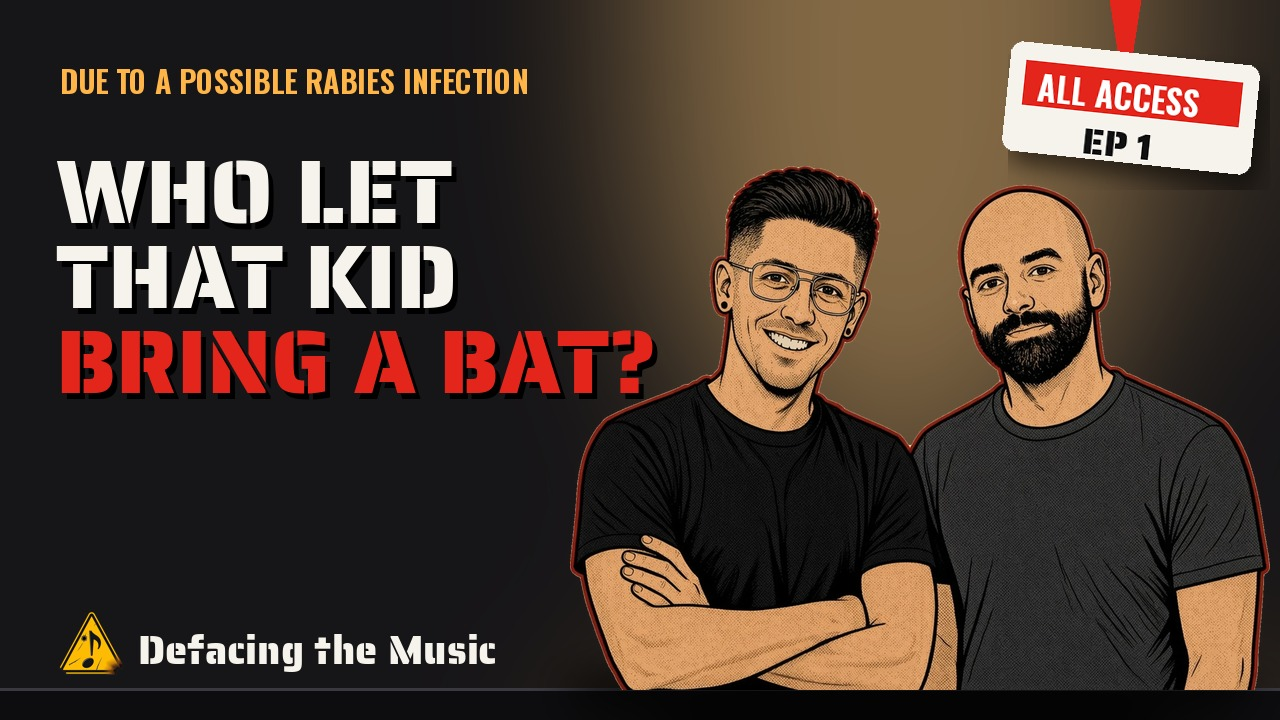
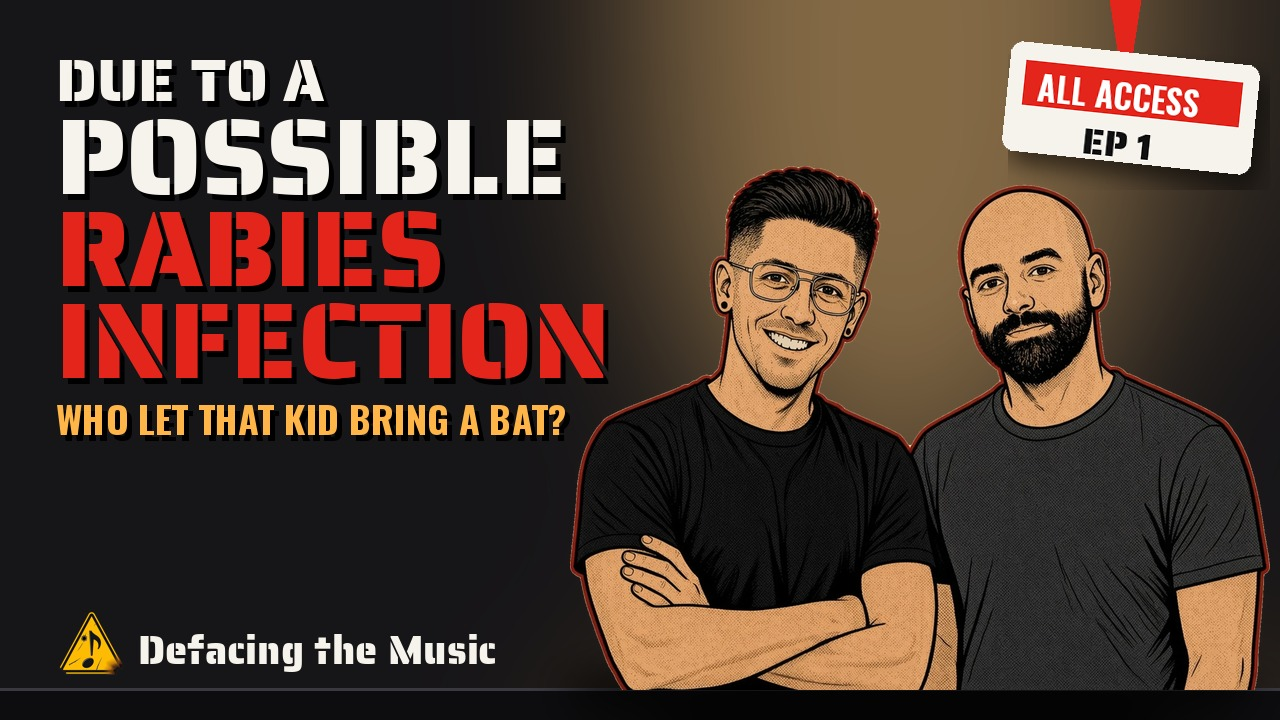
Episode 1 thumbnails: episode name big, subtitle smaller
Claude-Session: https://claude.ai/code/session_01SgoEQgzrgbohvY9Ho7h5Dy

Changed region(s): [[0.0312, 0.0611, 0.5312, 0.6111]]

diff --git a/CLAUDE.md b/CLAUDE.md
@@ -20,7 +20,7 @@ Live at https://defacingthemusic.com behind Cloudflare (SSL mode Flexible: visit
 
 ## Public site look: "Backstage" (Duck, Nov 22, 2026)
 - Duck picked the Backstage concept from admin > Site looks ("nice and simple"; the others "try too hard to be a theme"). The public site (`index.php`, `ep/index.php`) uses `assets/backstage.css`: dark stage `#161518` / floor `#1E1D21`, warm spotlight `#FFB547`, red `#E4251B`, paper `#F6F3EC`. Fonts: Saira Stencil One (headings, road-case stencil), Oswald (labels, buttons), Inter (body), Permanent Marker (the setlist only). Latest episode = ALL ACCESS laminate on a red lanyard; upcoming stories = Sharpie setlist gaff-taped down. Keep it simple, not a costume.
-- The admin matches it too (Duck, Nov 23): `lib/auth.php` loads `assets/admin-backstage.css` after `site.css` + `admin.css` (it only overrides). New admin styles go in admin-backstage.css. The teleprompter (`admin/prompter.php`) keeps its own black reading screen. Thumbnails are Backstage too (Duck, Nov 23: the yellow Gig Poster thumbnail is "not the theme anymore"): dark stage, warm spotlight, stencil type; the headline is the episode's real "Who ...?" subtitle (as set in admin > Episodes), the "Due To" title above it, EP N on an ALL ACCESS pass. Generator: Claude rebuilds them with PIL (fonts from Google Fonts). OBS pieces and cover art are still Gig Poster unless Duck says otherwise.
+- The admin matches it too (Duck, Nov 23): `lib/auth.php` loads `assets/admin-backstage.css` after `site.css` + `admin.css` (it only overrides). New admin styles go in admin-backstage.css. The teleprompter (`admin/prompter.php`) keeps its own black reading screen. Thumbnails are Backstage too (Duck, Nov 23: the yellow Gig Poster thumbnail is "not the theme anymore"): dark stage, warm spotlight, stencil type; the **episode name ("Due To ...") is the big headline** and the "Who ...?" subtitle sits smaller under it (Duck, Nov 23: "it should say the episode name, with the subtitle smaller"), both exactly as set in admin > Episodes, EP N on an ALL ACCESS pass. Generator: Claude rebuilds them with PIL (fonts from Google Fonts). OBS pieces and cover art are still Gig Poster unless Duck says otherwise.
 - Rejected site concepts (Nov 20 to 22), don't bring back: Hazard, B-Side (70s retro), newspaper/Front Page, VCR blue "Rewind". Suspects and Grok's After Hours stay in brand/concepts for reference.
 
 ## Brand ("Gig Poster", chosen by Dillon Nov 2026; the purple/teal/pink "Sea of Thieves / High Seas" look was rejected, never use it)
